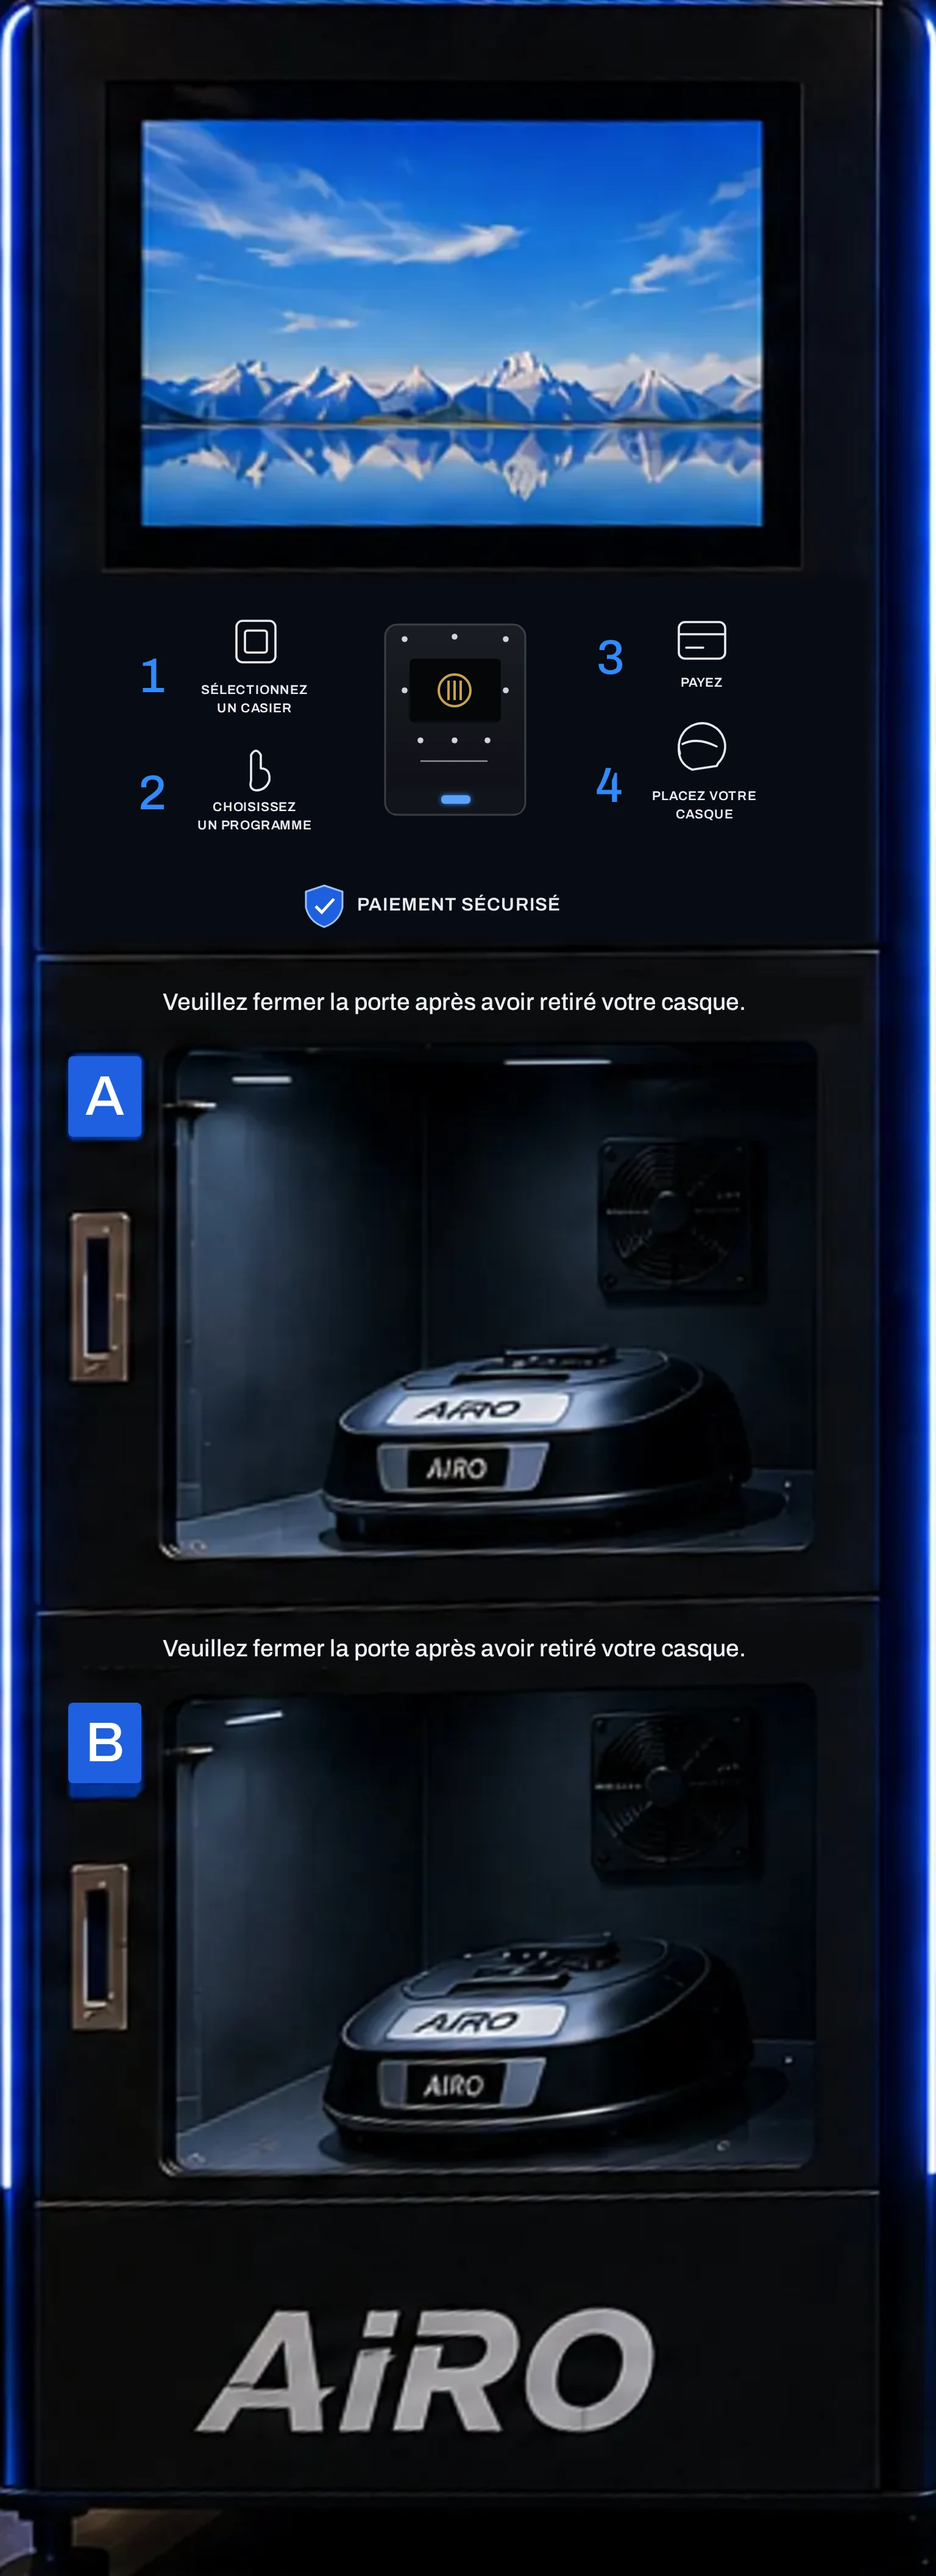
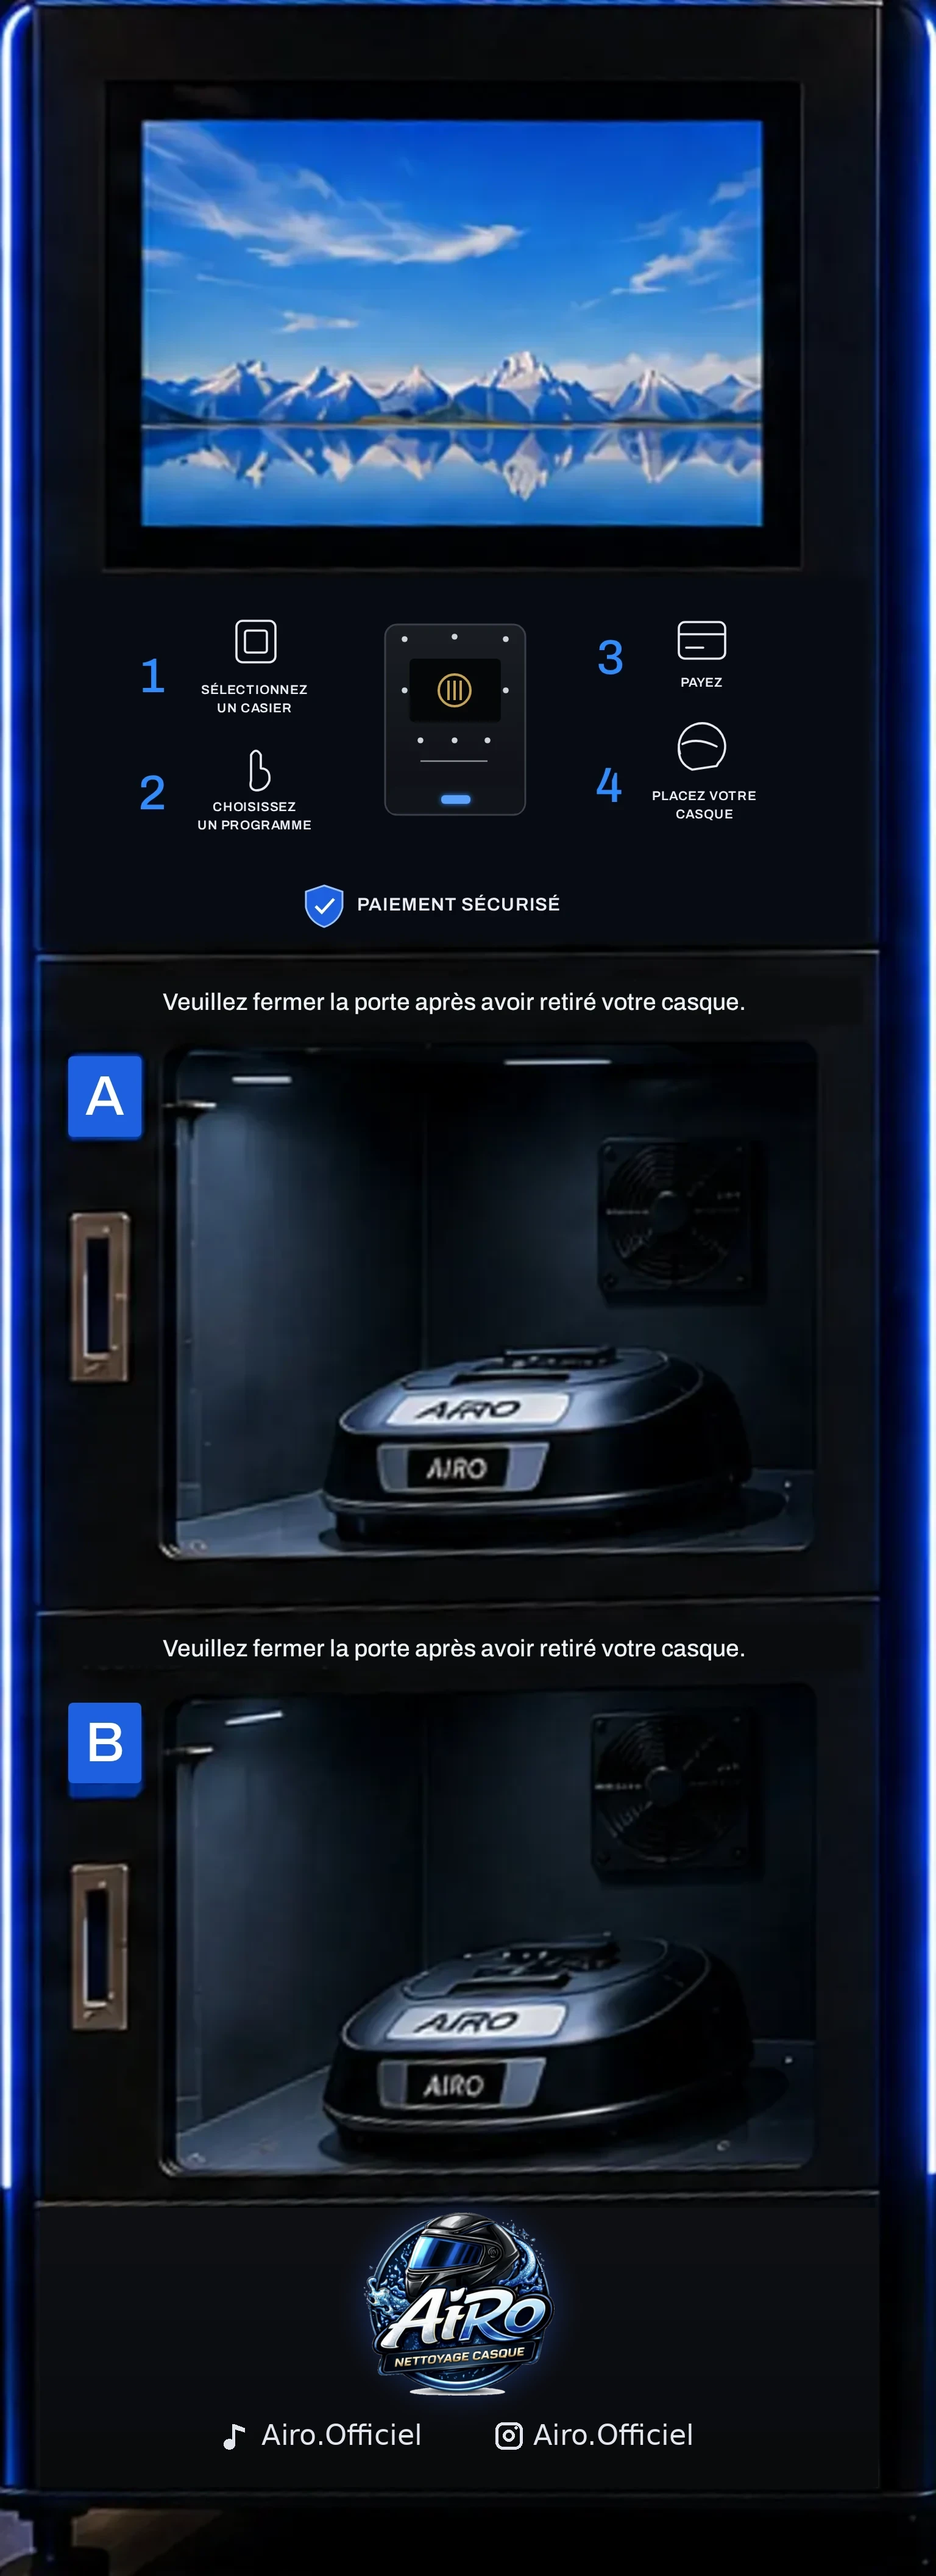
Borne 3D fidèle à la photo officielle : haut arrondi avec arc LED, badge et réseaux en bas, casiers sombres, vitre teintée, vapeur légère
Claude-Session: https://claude.ai/code/session_014LcVZBsUG9HYw6CuVLRXAj

Changed region(s): [[0.2188, 0.8438, 0.7188, 0.9688]]

diff --git a/assets/js/experience.js b/assets/js/experience.js
@@ -302,6 +302,7 @@ const WIN = { x0: -0.199, x1: 0.267, y0: 0.02, y1: 0.37 };    // vitre, mesurée
 const CAV = { x0: -0.212, x1: 0.28, y0: 0.012, y1: 0.376 };   // intérieur du casier
 const SCREEN = { x0: -0.227, x1: 0.227, y0: 1.515, y1: 1.814 };
 
+const TOP_R = 0.1;                             // rayon des coins supérieurs (photo de la borne : haut arrondi + arc LED)
 const frontV = (y) => (y - Y0) / BH;
 const frontU = (x) => (x + W / 2) / W;
 function photoPlane(x0, x1, y0, y1) {
@@ -312,19 +313,29 @@ function photoPlane(x0, x1, y0, y1) {
   return g;
 }
 
+// contour de façade entre y0 et y1, coins supérieurs arrondis (repère : x au centre)
+function topShape(y0, y1, r = TOP_R) {
+  const s = new THREE.Shape(), hw = W / 2;
+  s.moveTo(-hw, y0); s.lineTo(hw, y0); s.lineTo(hw, y1 - r); s.quadraticCurveTo(hw, y1, hw - r, y1);
+  s.lineTo(-hw + r, y1); s.quadraticCurveTo(-hw, y1, -hw, y1 - r); s.closePath();
+  return s;
+}
+// face photo épousant ce contour (UV de la photo de façade)
+function photoShape(y0, y1) {
+  const g = new THREE.ShapeGeometry(topShape(y0, y1), 16), pos = g.attributes.position, uv = g.attributes.uv;
+  for (let i = 0; i < pos.count; i++) uv.setXY(i, frontU(pos.getX(i)), frontV(pos.getY(i)));
+  return g;
+}
+
 function buildMachine(mats) {
   const machine = new THREE.Group();
   const add = (geo, mat, x, y, z, parent = machine) => { const m = new THREE.Mesh(geo, mat); m.position.set(x, y, z); parent.add(m); return m; };
   const zoneD = CD + 0.02, zoneZ = ZF - zoneD / 2;
 
-  // bloc arrière, coins arrondis côté dos
-  const rearDepth = D - zoneD, r = 0.035, hw = W / 2, hd = rearDepth / 2;
-  const shape = new THREE.Shape();
-  shape.moveTo(-hw, -hd); shape.lineTo(hw, -hd); shape.lineTo(hw, hd - r); shape.quadraticCurveTo(hw, hd, hw - r, hd);
-  shape.lineTo(-hw + r, hd); shape.quadraticCurveTo(-hw, hd, -hw, hd - r); shape.lineTo(-hw, -hd);
-  const rear = new THREE.ExtrudeGeometry(shape, { depth: BH, bevelEnabled: false, curveSegments: 10 });
-  rear.rotateX(-Math.PI / 2);
-  add(rear, mats.body, 0, Y0, -D / 2 + hd);
+  // bloc arrière : même contour que la façade (haut arrondi), sur la profondeur restante
+  const rearDepth = D - zoneD;
+  const rear = new THREE.ExtrudeGeometry(topShape(Y0, H), { depth: rearDepth, bevelEnabled: false, curveSegments: 16 });
+  add(rear, mats.body, 0, 0, -D / 2);
 
   // blocs pleins de façade + leur face photo
   const block = (y0, y1) => {
@@ -333,7 +344,9 @@ function buildMachine(mats) {
   };
   block(Y0, LOCKERS.B);          // socle « AIRO »
   block(1.22, 1.49);             // panneau de commande
-  block(1.49, H);                // bloc écran
+  // bloc écran : haut arrondi, la photo épouse l'arrondi
+  add(new THREE.ExtrudeGeometry(topShape(1.49, H), { depth: zoneD, bevelEnabled: false, curveSegments: 16 }), mats.body, 0, 0, ZF - zoneD);
+  add(photoShape(1.49, H), mats.front, 0, 0, ZF + 0.0006);
 
   // écran tactile animé, posé sur la dalle de la photo
   const scr = new THREE.PlaneGeometry(SCREEN.x1 - SCREEN.x0, SCREEN.y1 - SCREEN.y0);
@@ -344,19 +357,27 @@ function buildMachine(mats) {
   [[-1, -1], [1, -1], [-1, 1], [1, 1]].forEach(([sx, sz]) => add(foot, mats.metal, sx * (W / 2 - 0.06), Y0 / 2, sz * (D / 2 - 0.07)));
 
   // flancs identiques (photo du flanc redressée) et dos
-  const sideGeo = new THREE.PlaneGeometry(D - 0.012, BH);
-  const right = add(sideGeo, mats.side, W / 2 + 0.0015, Y0 + BH / 2, 0); right.rotation.y = Math.PI / 2;
-  const left = add(sideGeo, mats.side, -W / 2 - 0.0015, Y0 + BH / 2, 0); left.rotation.y = -Math.PI / 2;
-  const back = add(new THREE.PlaneGeometry(W - 0.07, BH), mats.back, 0, Y0 + BH / 2, -D / 2 - 0.0015); back.rotation.y = Math.PI;
+  // (les flancs s'arrêtent où commence l'arrondi du haut)
+  const SH = BH - TOP_R, sideGeo = new THREE.PlaneGeometry(D - 0.012, SH);
+  { const uv = sideGeo.attributes.uv; for (let i = 0; i < uv.count; i++) uv.setY(i, uv.getY(i) * SH / BH); }
+  const right = add(sideGeo, mats.side, W / 2 + 0.0015, Y0 + SH / 2, 0); right.rotation.y = Math.PI / 2;
+  const left = add(sideGeo, mats.side, -W / 2 - 0.0015, Y0 + SH / 2, 0); left.rotation.y = -Math.PI / 2;
+  const back = add(new THREE.PlaneGeometry(W - 0.07, BH - 0.03), mats.back, 0, Y0 + (BH - 0.03) / 2, -D / 2 - 0.0015); back.rotation.y = Math.PI;
 
   // bandeaux LED : arêtes avant et haut (animés à l'allumage)
   const leds = [];
-  const ledV = new THREE.BoxGeometry(0.011, BH - 0.02, 0.011); ledV.translate(0, (BH - 0.02) / 2, 0);
+  const LV = BH - TOP_R - 0.01;
+  const ledV = new THREE.BoxGeometry(0.011, LV, 0.011); ledV.translate(0, LV / 2, 0);
   leds.push(add(ledV, mats.led, W / 2 - 0.004, Y0 + 0.01, ZF + 0.002));
   leds.push(add(ledV, mats.led, -W / 2 + 0.004, Y0 + 0.01, ZF + 0.002));
-  const ledH = new THREE.BoxGeometry(W, 0.011, 0.011);
-  leds.push(add(ledH, mats.led, 0, H - 0.004, ZF + 0.002));
-  const ledBack = new THREE.BoxGeometry(0.011, BH - 0.06, 0.011); ledBack.translate(0, (BH - 0.06) / 2, 0);
+  // arc LED : suit l'arrondi du haut, d'un côté à l'autre
+  { const e = 0.004, r = TOP_R - e, hw = W / 2 - e, yt = H - e, z = 0;
+    const path = new THREE.CurvePath();
+    path.add(new THREE.QuadraticBezierCurve3(new THREE.Vector3(-hw, yt - r, z), new THREE.Vector3(-hw, yt, z), new THREE.Vector3(-hw + r, yt, z)));
+    path.add(new THREE.LineCurve3(new THREE.Vector3(-hw + r, yt, z), new THREE.Vector3(hw - r, yt, z)));
+    path.add(new THREE.QuadraticBezierCurve3(new THREE.Vector3(hw - r, yt, z), new THREE.Vector3(hw, yt, z), new THREE.Vector3(hw, yt - r, z)));
+    leds.push(add(new THREE.TubeGeometry(path, 96, 0.0058, 8, false), mats.led, 0, 0, ZF + 0.002)); }
+  const ledBack = new THREE.BoxGeometry(0.011, BH - TOP_R - 0.04, 0.011); ledBack.translate(0, (BH - TOP_R - 0.04) / 2, 0);
   leds.push(add(ledBack, mats.ledSoft, W / 2 - 0.004, Y0 + 0.03, -D / 2 + 0.03));
   leds.push(add(ledBack, mats.ledSoft, -W / 2 + 0.004, Y0 + 0.03, -D / 2 + 0.03));
 
@@ -474,13 +495,16 @@ async function init() {
     led: basic({ color: ledColor, toneMapped: false }),
     ledSoft: basic({ color: new THREE.Color(0x2f6bff).multiplyScalar(2), toneMapped: false }),
     ledWhite: basic({ color: new THREE.Color(0xeaf0ff).multiplyScalar(3), toneMapped: false, side: THREE.DoubleSide }),
-    interior: std({ color: 0x2b3038, metalness: 0.15, roughness: 0.62, side: THREE.BackSide }),
+    // casier : éclairage figé comme sur la photo (sombre, plus clair sous la réglette LED du haut), insensible aux projecteurs
+    interior: basic({ side: THREE.BackSide, map: (() => { const [c, g] = makeCanvas(64, 256); const gr = g.createLinearGradient(0, 0, 0, 256);
+      gr.addColorStop(0, "#5a626e"); gr.addColorStop(0.18, "#2c3139"); gr.addColorStop(0.6, "#181b20"); gr.addColorStop(1, "#0e1013");
+      g.fillStyle = gr; g.fillRect(0, 0, 64, 256); return texFrom(c, 4); })() }),
     fan: std({ map: fanTex(), roughness: 0.6 }),
     dock: new THREE.MeshPhysicalMaterial({ color: 0x23262d, metalness: 0.55, roughness: 0.25, clearcoat: 0.8, clearcoatRoughness: 0.15 }),
     dockDark: std({ color: 0x101216, metalness: 0.5, roughness: 0.4 }),
     dockLabel: basic({ map: (() => { const [c, g] = makeCanvas(256, 72); g.fillStyle = "#e9ecf1"; rr(g, 2, 2, 252, 68, 10); g.fill(); g.fillStyle = "#14161b"; rr(g, 8, 8, 240, 56, 8); g.fill(); g.font = `italic 800 46px ${FONT}`; g.fillStyle = "#fff"; g.textAlign = "center"; g.textBaseline = "middle"; g.fillText("AIRO", 128, 38); return texFrom(c, 4); })() }),
     door: std({ color: 0x0c0d10, metalness: 0.6, roughness: 0.32 }),
-    glass: new THREE.MeshPhysicalMaterial({ color: 0xbcd0ff, metalness: 0, roughness: 0.05, transparent: true, opacity: 0.1, envMapIntensity: 1.3, side: THREE.DoubleSide, depthWrite: false }),
+    glass: new THREE.MeshPhysicalMaterial({ color: 0x1a2230, metalness: 0, roughness: 0.05, transparent: true, opacity: 0.12, envMapIntensity: 0.12, side: THREE.DoubleSide, depthWrite: false }),
   };
 
   const { machine, lockers, leds } = buildMachine(mats);
@@ -1046,8 +1070,8 @@ async function init() {
     const steamAmt = smooth(0.04, 0.22, sCyc) * (1 - smooth(0.88, 1, sCyc));
     const escape = p >= B[5] ? smooth(0.15, 0.35, sRet) * (1 - smooth(0.35, 0.7, sRet)) : 0;
     const vap = Math.max(steamAmt, escape);
-    steamMat.opacity = vap * (STUDIO ? 0.3 : 0.5);   // fond noir du studio : vapeur plus légère
-    puffMat.opacity = vap * (STUDIO ? 0.12 : 0.22);
+    steamMat.opacity = vap * (STUDIO ? 0.13 : 0.4);   // fond noir du studio : vapeur plus légère
+    puffMat.opacity = vap * (STUDIO ? 0.06 : 0.16);
     if (vap > 0.001) {
       const ch = CAV.y1 - CAV.y0, cw = CAV.x1 - CAV.x0;
       const fill = (pos, seed, n, spread, rise) => {
@@ -1067,12 +1091,12 @@ async function init() {
     }
     // vitre embuée et lumière bleue pulsée pendant le cycle
     const pulse = 0.5 + 0.5 * Math.sin(t * 6);
-    A.light.intensity = boot * (0.4 + steamAmt * (1.4 + pulse * 1.1));
+    A.light.intensity = boot * (0.4 + steamAmt * (0.7 + pulse * 0.5));
     A.light.color.setHSL(0.6, 0.3 + steamAmt * 0.7, 0.75 - steamAmt * 0.1);
     Bk.light.intensity = boot * 0.4;
-    A.glassMat.opacity = 0.1 + steamAmt * 0.38;
-    A.glassMat.roughness = 0.05 + steamAmt * 0.5;
-    A.glassMat.color.setHSL(0.6, 0.4, 0.8 + steamAmt * 0.12);
+    A.glassMat.opacity = 0.12 + steamAmt * 0.08;              // buée légère : on voit toujours le casque
+    A.glassMat.roughness = 0.05 + steamAmt * 0.35;
+    A.glassMat.color.setHSL(0.6, 0.3, 0.12 + steamAmt * 0.25);
 
     // étincelles quand le casque sort propre
     const sparkAmt = smooth(0.55, 0.75, sRet) * (1 - smooth(0.0, 0.5, sEnd));

diff --git a/tools/machine/bottom-badge.py b/tools/machine/bottom-badge.py
@@ -1,0 +1,41 @@
+"""Façade de la borne (photo 1) : remplace le grand « AiRO » du bas de tex-front-hd par le badge officiel
+et la ligne des réseaux, comme sur la vraie borne. python3 tools/machine/bottom-badge.py"""
+from PIL import Image, ImageDraw, ImageFont, ImageFilter
+import pathlib
+R = pathlib.Path(__file__).resolve().parents[2]
+src = R / "assets/img/tex-front-hd.webp"
+orig = R / "assets/img/tex-front-hd-v1.webp"
+if not orig.exists(): Image.open(src).save(orig, "WEBP", quality=92)     # garde l'ancienne façade
+a = Image.open(orig).convert("RGB"); w, h = a.size
+y0 = int(h * 0.85)                                   # haut de la bande du bas
+px0, px1, py0, py1 = 66, 1440, y0 + 30, y0 + 488     # intérieur du panneau (repéré sur la texture)
+d = ImageDraw.Draw(a)
+# fond du panneau : noir légèrement dégradé, comme le reste de la façade
+for y in range(py0, py1):
+    k = (y - py0) / (py1 - py0); c = int(15 - 5 * k)
+    d.line([(px0, y), (px1, y)], fill=(c, c + 1, c + 4))
+# badge officiel (logo.png, inchangé)
+logo = Image.open(R / "assets/img/logo.png").convert("RGBA")
+lh = 300; lw = round(logo.width * lh / logo.height); logo = logo.resize((lw, lh), Image.LANCZOS)
+glow = Image.new("RGBA", (lw + 120, lh + 120), (0, 0, 0, 0)); gd = ImageDraw.Draw(glow)
+gd.ellipse((40, 40, lw + 80, lh + 80), fill=(47, 107, 255, 70)); glow = glow.filter(ImageFilter.GaussianBlur(30))
+cx = (px0 + px1) // 2
+a.paste(glow, (cx - (lw + 120) // 2, py0 + 8 - 60), glow)
+a.paste(logo, (cx - lw // 2, py0 + 8), logo)
+# ligne des réseaux : pictos simples + « Airo.Officiel »
+f = ImageFont.truetype("/usr/share/fonts/truetype/dejavu/DejaVuSans.ttf", 46)
+ty = py0 + lh + 52; col = (226, 230, 238)
+def note(x, y, s=44):   # pictogramme note de musique (TikTok)
+    d.ellipse((x, y + s * .62, x + s * .42, y + s), fill=col); d.rectangle((x + s * .32, y + s * .08, x + s * .42, y + s * .8), fill=col)
+    d.polygon([(x + s * .42, y + s * .08), (x + s * .78, y + s * .22), (x + s * .78, y + s * .38), (x + s * .42, y + s * .26)], fill=col)
+def insta(x, y, s=44):  # pictogramme appareil photo (Instagram)
+    d.rounded_rectangle((x, y, x + s, y + s), radius=s * .28, outline=col, width=5)
+    d.ellipse((x + s * .28, y + s * .28, x + s * .72, y + s * .72), outline=col, width=5)
+    d.ellipse((x + s * .72, y + s * .14, x + s * .84, y + s * .26), fill=col)
+label = "Airo.Officiel"; tw = d.textlength(label, font=f)
+gap, ic = 120, 44; total = 2 * (ic + 18 + tw) + gap; x = cx - total / 2
+note(x, ty); d.text((x + ic + 18, ty - 6), label, font=f, fill=col); x += ic + 18 + tw + gap
+insta(x, ty); d.text((x + ic + 18, ty - 6), label, font=f, fill=col)
+a.save(src, "WEBP", quality=90)
+a.crop((0, y0 - 200, w, h)).resize((768, (h - y0 + 200) // 2)).save(R / "tools/machine/_check-bottom.jpg")
+print("ok", src)
